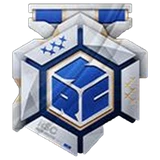
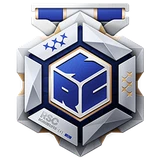
Roscaelifer: clean official emblem from HoYoLAB
Claude-Session: https://claude.ai/code/session_011E7ygcYxQYAdbkbtL5EJYd

diff --git a/NOTICE.md b/NOTICE.md
@@ -8,7 +8,7 @@ ZZZ Team Builder is an unofficial, non-commercial fan project. It is not affilia
 
 ## Game data
 
-Agent, W-Engine, Drive Disc and Bangboo names, ranks, attributes, specialties, factions, stats, set bonuses, release versions, Additional Ability names and conditions, and kit links (Ether Veil and Aftershock) in `src/data/` are factual game information compiled from the community [Zenless Zone Zero Wiki](https://zenless-zone-zero.fandom.com/) on Fandom (October 2026), whose text is available under [CC BY-SA 4.0](https://creativecommons.org/licenses/by-sa/4.0/). Details of upcoming Agents (such as Phoenix's Additional Ability condition and recommended teams) come only from HoYoverse's official reveals and livestreams, apart from Phoenix's Core Passive, Mindscapes and build guidance, which are short rewordings of pre-release information marked "Subject to change" on the site; Severian's condition and the Roxy team are estimates from the 3.3 livestream gameplay and are marked as such on the site until his official reveal; his Drive Discs and build notes come from his official 3.3 in-game trial, and his signature W-Engine Incarcerating Grip's stats and passive from that trial (as listed by zzz.gg), marked "Subject to change" until release. Phoenix and her W-Engine Plume of Rebirth released in 3.3. Sunbringer (Eldreda, Lindverne and Dracaene Sunbringer, an S-rank Fire Armorer of Roscaelifer, listed for 3.4) comes only from HoYoverse's official drip marketing; her portraits (one per member) are cropped from that official art, her blue Void Hunter Fire icon is redrawn from the one in her Agent Record (the Frost, Honed Edge and Auric Ink icons are HoYoverse's official in-game icons), the official Roscaelifer emblem (cut out from HoYoverse's "New Eridu Archives" post) and her members' department logos (Administrative Affairs and Central Computing, the latter recoloured to the gold of the official reveal) are taken from HoYoverse's "Five Central Departments" posts, and the "From a mother to her children" verses on her exported cards are quoted from the same reveal, and her kit, build and Core Skill drops are left blank until they're revealed. Kafka (an S-rank Electric Anomaly Agent from the Honkai: Star Rail collaboration, Unknown Realm, listed for 3.4) likewise comes only from HoYoverse's official drip marketing: her portrait is cropped from that art, her quote on exported cards is quoted from it, and her kit, build and Core Skill drops are left blank until they're revealed. Robin (an S-rank Ether Defense Agent from the same collaboration, Unknown Realm, listed for 3.4) comes the same way from her official drip marketing, and the team with Sunbringer and Norma from Sunbringer's official gameplay footage; the Unknown Realm logo is HoYoverse's official emblem. Kafka's and Robin's suggested builds and other teams are estimates from similar Agents (Anomaly Agents for Kafka, Zhao for Robin) and are marked as estimates on the site. Skill summaries in `src/data/skills/` (skills, Core Passive values by level, Additional Abilities, Mindscapes and Potential) are shortened rewordings of the same Wiki's skill text, with the game's numbers kept, and are shared under the same CC BY-SA 4.0 licence. Bangboo skill summaries (`src/data/bangbooSkills.js`) are shortened the same way. Level-up, skill and Core Skill material costs and where they drop (`src/data/materials.js`) come from the same Wiki. W-Engine, Bangboo EXP and Drive Disc levelling costs (`src/data/levelMats.js`) come from Icy Veins' Zenless Zone Zero leveling guide and W-Engine pages (October 2026). Faction descriptions in the Glossary (`src/data/glossary.js`) are short summaries written for this site from facts in Icy Veins' and Game8's faction guides (October 2026). The Ethereals tab's endgame data (`src/data/endgame.js`) is game information: Deadly Assault 3.3.1 dates, weaknesses, resistances and buffs as shown in game (reworded in English), and Shiyu Defense stage weaknesses and buffs from Icy Veins' Critical Node guide (October 2026); boss art is cropped from HoYoverse's official art. The teams it suggests are picked by the site from those facts and the recommended teams above. The order to level each Agent's skills (`src/data/skillPriority.js`) follows the upgrade order listed on ZZZ Build's Agent pages (zzz-build.com, October 2026). Only released content and officially announced Agents are included, with occasional clearly-marked test-server figures for upcoming content, ahead of their live release; undocumented leaks are never used. No game files are extracted, decompiled or redistributed.
+Agent, W-Engine, Drive Disc and Bangboo names, ranks, attributes, specialties, factions, stats, set bonuses, release versions, Additional Ability names and conditions, and kit links (Ether Veil and Aftershock) in `src/data/` are factual game information compiled from the community [Zenless Zone Zero Wiki](https://zenless-zone-zero.fandom.com/) on Fandom (October 2026), whose text is available under [CC BY-SA 4.0](https://creativecommons.org/licenses/by-sa/4.0/). Details of upcoming Agents (such as Phoenix's Additional Ability condition and recommended teams) come only from HoYoverse's official reveals and livestreams, apart from Phoenix's Core Passive, Mindscapes and build guidance, which are short rewordings of pre-release information marked "Subject to change" on the site; Severian's condition and the Roxy team are estimates from the 3.3 livestream gameplay and are marked as such on the site until his official reveal; his Drive Discs and build notes come from his official 3.3 in-game trial, and his signature W-Engine Incarcerating Grip's stats and passive from that trial (as listed by zzz.gg), marked "Subject to change" until release. Phoenix and her W-Engine Plume of Rebirth released in 3.3. Sunbringer (Eldreda, Lindverne and Dracaene Sunbringer, an S-rank Fire Armorer of Roscaelifer, listed for 3.4) comes only from HoYoverse's official drip marketing; her portraits (one per member) are cropped from that official art, her blue Void Hunter Fire icon is redrawn from the one in her Agent Record (the Frost, Honed Edge and Auric Ink icons are HoYoverse's official in-game icons), the official Roscaelifer emblem (as posted by HoYoverse on HoYoLAB) and her members' department logos (Administrative Affairs and Central Computing, the latter recoloured to the gold of the official reveal) are taken from HoYoverse's "Five Central Departments" posts, and the "From a mother to her children" verses on her exported cards are quoted from the same reveal, and her kit, build and Core Skill drops are left blank until they're revealed. Kafka (an S-rank Electric Anomaly Agent from the Honkai: Star Rail collaboration, Unknown Realm, listed for 3.4) likewise comes only from HoYoverse's official drip marketing: her portrait is cropped from that art, her quote on exported cards is quoted from it, and her kit, build and Core Skill drops are left blank until they're revealed. Robin (an S-rank Ether Defense Agent from the same collaboration, Unknown Realm, listed for 3.4) comes the same way from her official drip marketing, and the team with Sunbringer and Norma from Sunbringer's official gameplay footage; the Unknown Realm logo is HoYoverse's official emblem. Kafka's and Robin's suggested builds and other teams are estimates from similar Agents (Anomaly Agents for Kafka, Zhao for Robin) and are marked as estimates on the site. Skill summaries in `src/data/skills/` (skills, Core Passive values by level, Additional Abilities, Mindscapes and Potential) are shortened rewordings of the same Wiki's skill text, with the game's numbers kept, and are shared under the same CC BY-SA 4.0 licence. Bangboo skill summaries (`src/data/bangbooSkills.js`) are shortened the same way. Level-up, skill and Core Skill material costs and where they drop (`src/data/materials.js`) come from the same Wiki. W-Engine, Bangboo EXP and Drive Disc levelling costs (`src/data/levelMats.js`) come from Icy Veins' Zenless Zone Zero leveling guide and W-Engine pages (October 2026). Faction descriptions in the Glossary (`src/data/glossary.js`) are short summaries written for this site from facts in Icy Veins' and Game8's faction guides (October 2026). The Ethereals tab's endgame data (`src/data/endgame.js`) is game information: Deadly Assault 3.3.1 dates, weaknesses, resistances and buffs as shown in game (reworded in English), and Shiyu Defense stage weaknesses and buffs from Icy Veins' Critical Node guide (October 2026); boss art is cropped from HoYoverse's official art. The teams it suggests are picked by the site from those facts and the recommended teams above. The order to level each Agent's skills (`src/data/skillPriority.js`) follows the upgrade order listed on ZZZ Build's Agent pages (zzz-build.com, October 2026). Only released content and officially announced Agents are included, with occasional clearly-marked test-server figures for upcoming content, ahead of their live release; undocumented leaks are never used. No game files are extracted, decompiled or redistributed.
 
 Recommended builds and best teams on the Agent pages (`src/data/builds.js`) are community picks compiled from [Icy Veins](https://www.icy-veins.com/zenless-zone-zero/)' Zenless Zone Zero build and team guides (October 2026): only the names of W-Engines, Drive Disc sets, stats and Agents are used, not their write-ups. They are recommendations, not official HoYoverse data, and change with new Agents and patches.
 
